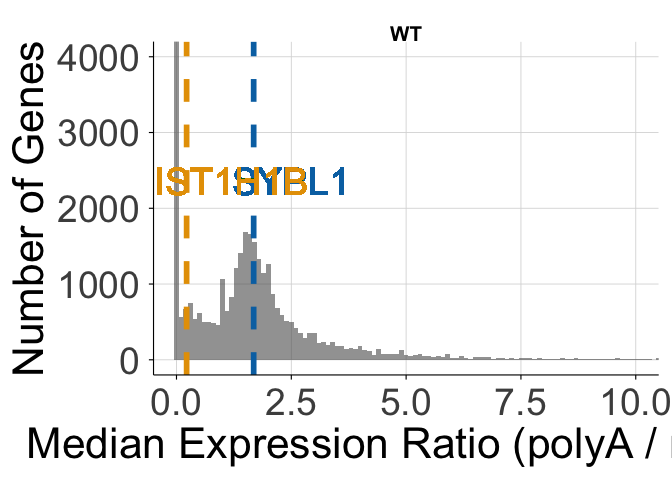
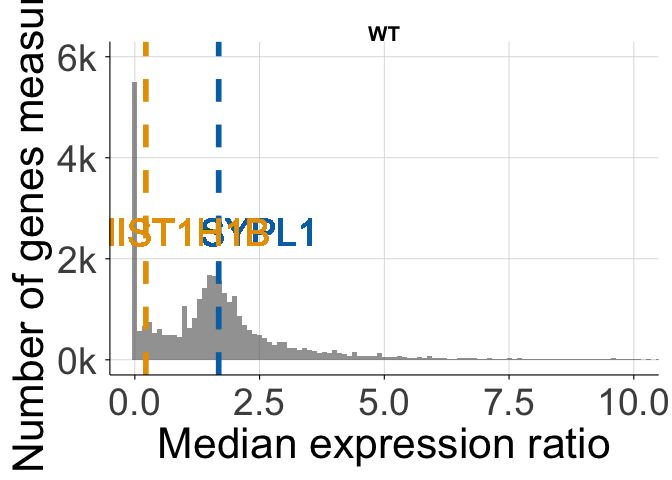
changes to 1F and S5
Increased/reformatted y-axis, made axis titles more consistent

diff --git a/Fig_1/Fig1E_F/Fig1E_F.md b/Fig_1/Fig1E_F/Fig1E_F.md
@@ -42,6 +42,21 @@ library(cowplot)
         stamp
 
 ``` r
+library(scales)
+```
+
+
+    Attaching package: 'scales'
+
+    The following object is masked from 'package:purrr':
+
+        discard
+
+    The following object is masked from 'package:readr':
+
+        col_factor
+
+``` r
 # expression files
 SS_polyA_log2tpm1 <- read_tsv("../../input_data/sample_selection/SS_polyA_log2tpm1.tsv")
 ```
@@ -403,6 +418,10 @@ SS_most_average_gene_hugo
 | Gene  | SS_polyA_median | SS_riboD_median | SS_median_ratio |  dist |
 |:------|----------------:|----------------:|----------------:|------:|
 | MTMR2 |        4.797532 |        2.954196 |        1.623972 | 5e-07 |
+
+``` r
+write_tsv(SS_most_average_gene_hugo, "../../output_data/Fig1E_F/SS_most_average_gene_hugo.tsv.gz")
+```
 
 ``` r
 # Find gene medians in polyA aRMS
@@ -950,6 +969,7 @@ combined_long <- bind_rows(
   avg_AML_riboD_long %>%
     mutate(Disease = "AML"),
 )
+write_tsv(combined_long, "../../output_data/Fig1E_F/combined_long.tsv.gz")
 ```
 
 Custom color theme
@@ -996,6 +1016,9 @@ median_gene_map <- list(
   ALL     = ALL_most_average_gene_hugo$Gene,
   AML     = AML_most_average_gene_hugo$Gene
 )
+median_gene_map_df <- as.data.frame(median_gene_map)
+
+#write_tsv(median_gene_map_df, "../../output_data/Fig1E_F/median_gene_map_df.tsv.gz")
 
 diseases <- unique(combined_long$Disease)
 ```
@@ -1104,6 +1127,7 @@ compute_significance_table <- function(df) {
 
 
 sig_results <- compute_significance_table(combined_long)
+write_tsv(sig_results, "../../output_data/Fig1E_F/sig_results.tsv.gz")
 
 sig_results
 ```
@@ -1201,37 +1225,10 @@ Fig1E_SS <- map(diseases, function(d) {
       legend.margin = margin(t = -2) 
     ) 
 })
-Fig1E_SS
+Fig1E_SS[[1]]
 ```
 
-    [[1]]
-
-![](Fig1E_F_files/figure-commonmark/unnamed-chunk-2-1.png)
-
-
-    [[2]]
-
-![](Fig1E_F_files/figure-commonmark/unnamed-chunk-2-2.png)
-
-
-    [[3]]
-
-![](Fig1E_F_files/figure-commonmark/unnamed-chunk-2-3.png)
-
-
-    [[4]]
-
-![](Fig1E_F_files/figure-commonmark/unnamed-chunk-2-4.png)
-
-
-    [[5]]
-
-![](Fig1E_F_files/figure-commonmark/unnamed-chunk-2-5.png)
-
-
-    [[6]]
-
-![](Fig1E_F_files/figure-commonmark/unnamed-chunk-2-6.png)
+![](Fig1E_F_files/figure-commonmark/Fig1E_SS-1.png)
 
 ``` r
 ggsave("../../Figures/Fig1E.png", plot = Fig1E_SS[[1]])
@@ -1380,8 +1377,8 @@ FigS4
 ![](Fig1E_F_files/figure-commonmark/FigS4-1.png)
 
 ``` r
-ggsave("../../Figures/FigS4.png", FigS4, width = 20, height = 30, dpi = 500)
-ggsave("../../Figures/FigS4.tif", FigS4, width = 20, height = 30, dpi = 500)
+ggsave("../../Figures/FigS4.png", FigS4, width = 20, height = 30, dpi = 300)
+ggsave("../../Figures/FigS4.tif", FigS4, width = 20, height = 30, dpi = 300)
 ```
 
 ## Fig 1F
@@ -1394,6 +1391,8 @@ in RiboD samples
 ss_ratios <- SS_gene_medians %>%
   select(Gene, Ratio = SS_median_ratio) %>%
   mutate(Disease = "SS")
+write_tsv(ss_ratios, "../../output_data/Fig1E_F/ss_ratios.tsv.gz")
+
 
 arms_ratios <- aRMS_gene_medians %>%
   select(Gene = Gene, Ratio = aRMS_median_ratio) %>%
@@ -1440,6 +1439,7 @@ theme_Fig1F <- function(base_size = 14) {
 ``` r
 SS_HIST1H1B <- SS_gene_medians_hugo %>%
   filter(Gene %in% c("HIST1H1B"))
+write_tsv(SS_HIST1H1B, "../../output_data/Fig1E_F/SS_HIST1H1B.tsv.gz")
 
 aRMS_HIST1H1B <- aRMS_gene_median_hugo %>%
   filter(Gene %in% c("HIST1H1B"))
@@ -1457,6 +1457,10 @@ ALL_HIST1H1B <- ALL_gene_medians_hugo %>%
   filter(Gene %in% c("HIST1H1B"))
 ```
 
+x = “Median expression ratio”,
+
+y = “Number of genes expressed”
+
 ``` r
 # Fig1F - SS standalone
 Fig1F <- ggplot(ss_ratios, aes(x = Ratio)) +
@@ -1470,11 +1474,14 @@ Fig1F <- ggplot(ss_ratios, aes(x = Ratio)) +
   
   geom_text(aes(x = 0.9, y = 2000, label = SS_HIST1H1B$Gene), angle = 0, vjust = -5, hjust = 0.2, color = "#E69F00", size = 8) +
   
-  coord_cartesian(xlim = c(0, 10), ylim = c(0, 4000)) +
+  coord_cartesian(xlim = c(0, 10), ylim = c(0, 6000)) +
   labs(
     title = "SS",
-    x = "Median Expression Ratio",
-    y = "Number of Genes"
+    x = "Median expression ratio",
+    y = "Number of genes measured"
+  ) +
+  scale_y_continuous(
+    labels = label_comma(scale = 1e-3, suffix = "k")
   ) +
   theme_Fig1F() +
       theme(
@@ -1550,11 +1557,14 @@ Fig1F_aRMS <- ggplot(arms_ratios, aes(x = Ratio)) +
   geom_vline(xintercept = aRMS_HIST1H1B$aRMS_median_ratio, color = "#E69F00", linetype = "dashed", linewidth = 2) +
   
   geom_text(aes(x = 0.9, y = 2000, label = aRMS_HIST1H1B$Gene), angle = 0, vjust = -0.5, color = "#E69F00", size = 10) +
-  coord_cartesian(xlim = c(0, 10), ylim = c(0, 4000)) +
+  coord_cartesian(xlim = c(0, 10), ylim = c(0, 6000)) +
   labs(
     title = "aRMS",
-    x = "Median Expression Ratio (polyA / riboD)",
-    y = "Number of Genes"
+    x = "Median expression ratio",
+    y = "Number of genes measured"
+  ) +
+  scale_y_continuous(
+    labels = label_comma(scale = 1e-3, suffix = "k")
   ) +
   theme_Fig1F() +
       theme(
@@ -1594,11 +1604,14 @@ Fig1F_SS <- ggplot(ss_ratios, aes(x = Ratio)) +
   
   geom_text(aes(x = 0.9, y = 2000, label = SS_HIST1H1B$Gene), angle = 0, vjust = -0.5, color = "#E69F00", size = 10) +
   
-  coord_cartesian(xlim = c(0, 10), ylim = c(0, 4000)) +
+  coord_cartesian(xlim = c(0, 10), ylim = c(0, 6000)) +
   labs(
     title = "SS",
-    x = "Median Expression Ratio (polyA / riboD)",
-    y = "Number of Genes"
+    x = "Median expression ratio",
+    y = "Number of genes measured"
+  ) +
+  scale_y_continuous(
+    labels = label_comma(scale = 1e-3, suffix = "k")
   ) +
   theme_Fig1F() +
       theme(
@@ -1638,11 +1651,14 @@ Fig1F_WT <- ggplot(wt_ratios, aes(x = Ratio)) +
   
   geom_text(aes(x = 0.9, y = 2000, label = WT_HIST1H1B$Gene), angle = 0, vjust = -0.5, color = "#E69F00", size = 10) +
   
-  coord_cartesian(xlim = c(0, 10), ylim = c(0, 4000)) +
+  coord_cartesian(xlim = c(0, 10), ylim = c(0, 6000)) +
   labs(
     title = "WT",
-    x = "Median Expression Ratio (polyA / riboD)",
-    y = "Number of Genes"
+    x = "Median expression ratio",
+    y = "Number of genes measured"
+  ) +
+  scale_y_continuous(
+    labels = label_comma(scale = 1e-3, suffix = "k")
   ) +
   theme_Fig1F() +
       theme(
@@ -1682,11 +1698,14 @@ Fig1F_NB <- ggplot(nb_ratios, aes(x = Ratio)) +
   
   geom_text(aes(x = 0.9, y = 2000, label = NB_HIST1H1B$Gene), angle = 0, vjust = -0.5, color = "#E69F00", size = 10) +
   
-  coord_cartesian(xlim = c(0, 10), ylim = c(0, 4000)) +
+  coord_cartesian(xlim = c(0, 10), ylim = c(0, 6000)) +
   labs(
     title = "NB",
-    x = "Median Expression Ratio (polyA / riboD)",
-    y = "Number of Genes"
+    x = "Median expression ratio",
+    y = "Number of genes measured"
+  ) +
+  scale_y_continuous(
+    labels = label_comma(scale = 1e-3, suffix = "k")
   ) +
   theme_Fig1F() +
       theme(
@@ -1726,11 +1745,14 @@ Fig1F_ALL <- ggplot(all_ratios, aes(x = Ratio)) +
   
   geom_text(aes(x = 0.9, y = 2000, label = ALL_HIST1H1B$Gene), angle = 0, vjust = -0.5, color = "#E69F00", size = 10) +
   
-  coord_cartesian(xlim = c(0, 10), ylim = c(0, 4000)) +
+  coord_cartesian(xlim = c(0, 10), ylim = c(0, 6000)) +
   labs(
     title = "ALL",
-    x = "Median Expression Ratio (polyA / riboD)",
-    y = "Number of Genes"
+    x = "Median expression ratio",
+    y = "Number of genes measured"
+  ) +
+  scale_y_continuous(
+    labels = label_comma(scale = 1e-3, suffix = "k")
   ) +
   theme_Fig1F() +
       theme(
@@ -1774,11 +1796,14 @@ Fig1F_AML <- ggplot(aml_ratios, aes(x = Ratio)) +
   
   geom_text(aes(x = 0.9, y = 2000, label = AML_HIST1H1B$Gene), angle = 0, vjust = -0.5, color = "#E69F00", size = 10) +
   
-  coord_cartesian(xlim = c(0, 10), ylim = c(0, 4000)) +
+  coord_cartesian(xlim = c(0, 10), ylim = c(0, 6000)) +
   labs(
    title = "AML",
-    x = "Median Expression Ratio (polyA / riboD)",
-    y = "Number of Genes"
+    x = "Median expression ratio",
+    y = "Number of genes measured"
+  ) +
+  scale_y_continuous(
+    labels = label_comma(scale = 1e-3, suffix = "k")
   ) +
   theme_Fig1F() +
       theme(
@@ -1891,7 +1916,7 @@ FigS5
 ![](Fig1E_F_files/figure-commonmark/FigS5-1.png)
 
 ``` r
-ggsave("../../Figures/FigS5.png", FigS5, width = 20, height = 30, dpi = 500)
+ggsave("../../Figures/FigS5.png", FigS5, width = 20, height = 30, dpi = 300)
 ```
 
     Warning in geom_text(aes(x = 2.5, y = 2000, label = SS_most_average_gene_hugo$Gene), : All aesthetics have length 1, but the data has 60498 rows.
@@ -1961,7 +1986,7 @@ ggsave("../../Figures/FigS5.png", FigS5, width = 20, height = 30, dpi = 500)
     (`stat_bin()`).
 
 ``` r
-ggsave("../../Figures/FigS5.tif", FigS5, width = 20, height = 30, dpi = 500)
+ggsave("../../Figures/FigS5.tif", FigS5, width = 20, height = 30, dpi = 300)
 ```
 
     Warning in geom_text(aes(x = 2.5, y = 2000, label = SS_most_average_gene_hugo$Gene), : All aesthetics have length 1, but the data has 60498 rows.
@@ -2046,7 +2071,7 @@ sessioninfo::session_info()
      collate  en_US.UTF-8
      ctype    en_US.UTF-8
      tz       America/Los_Angeles
-     date     2026-06-24
+     date     2026-07-07
      pandoc   3.8.3 @ /Applications/RStudio.app/Contents/Resources/app/quarto/bin/tools/aarch64/ (via rmarkdown)
      quarto   1.9.36 @ /Applications/RStudio.app/Contents/Resources/app/quarto/bin/quarto
 
@@ -2087,7 +2112,7 @@ sessioninfo::session_info()
      rmarkdown      2.30    2025-09-28 [1] CRAN (R 4.5.0)
      rstudioapi     0.17.1  2024-10-22 [1] CRAN (R 4.5.0)
      S7             0.2.0   2024-11-07 [1] CRAN (R 4.5.0)
-     scales         1.4.0   2025-04-24 [1] CRAN (R 4.5.0)
+     scales       * 1.4.0   2025-04-24 [1] CRAN (R 4.5.0)
      sessioninfo    1.2.3   2025-02-05 [1] CRAN (R 4.5.0)
      stringi        1.8.7   2025-03-27 [1] CRAN (R 4.5.0)
      stringr      * 1.5.2   2025-09-08 [1] CRAN (R 4.5.0)
